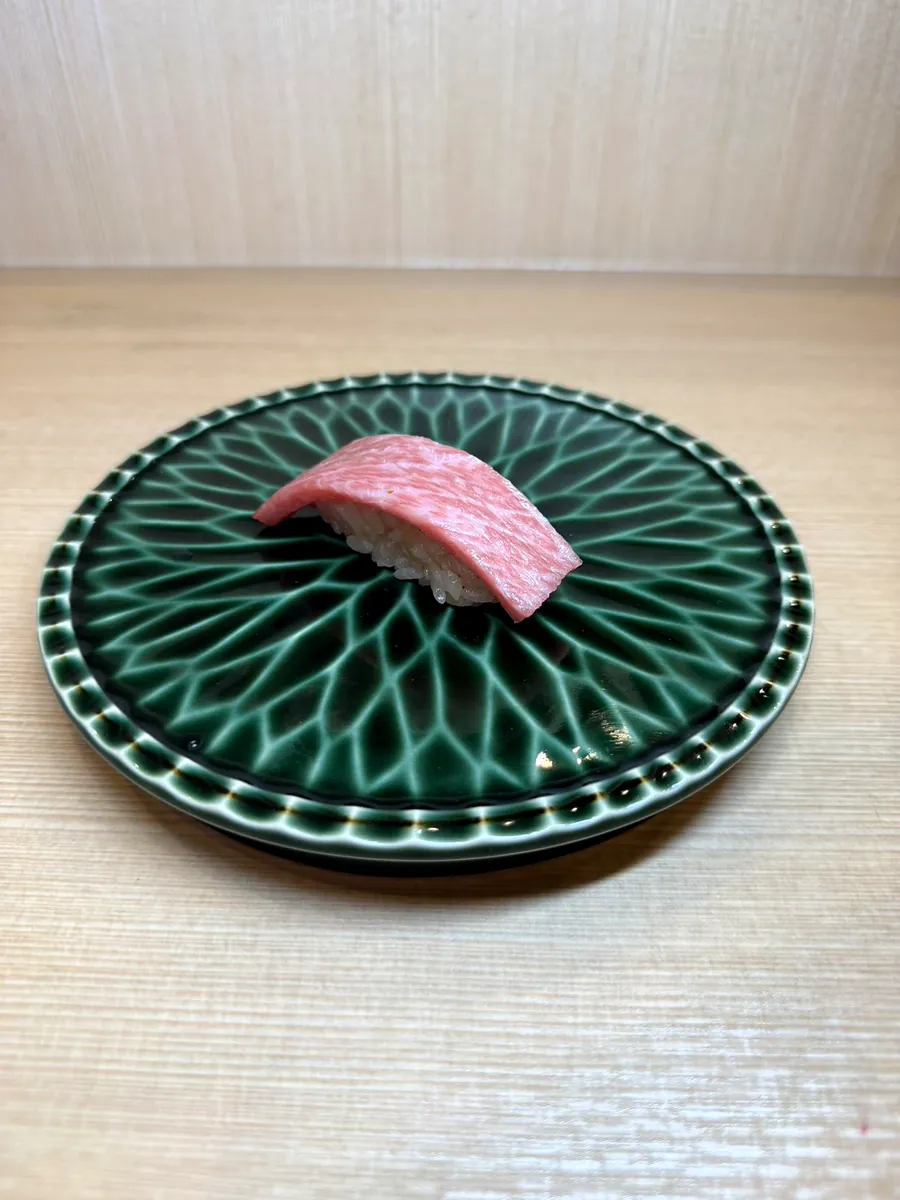
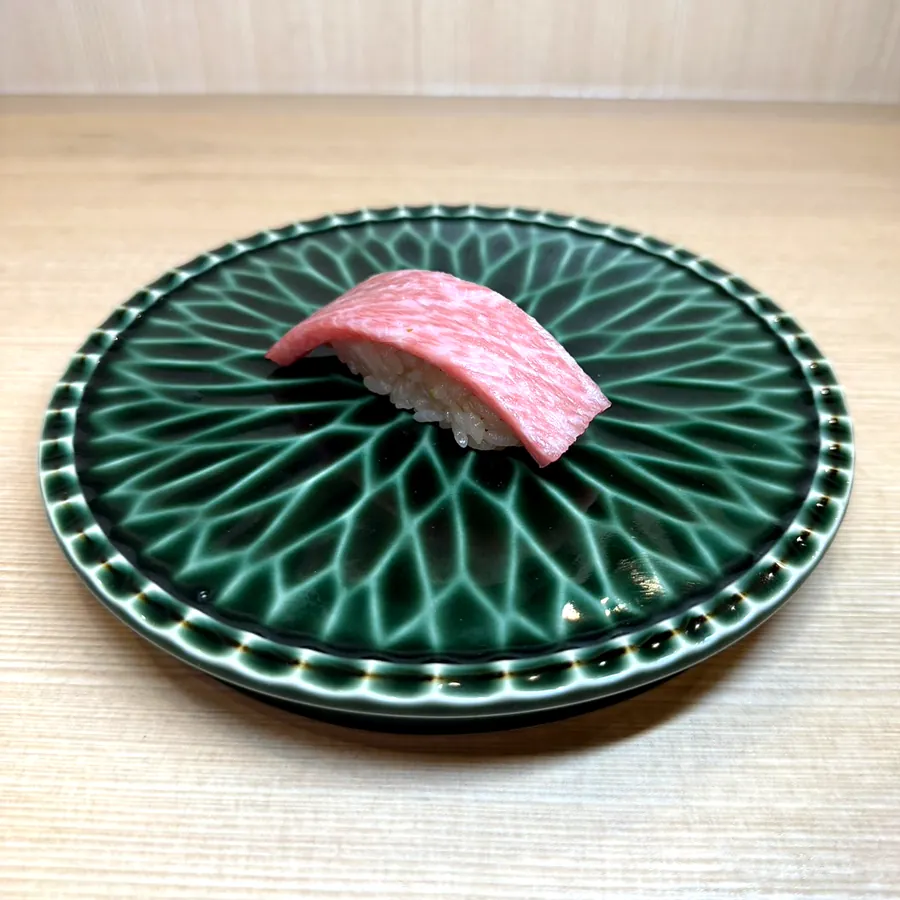
Unify nigiri slider photos (plate size/position/brightness); use shop exterior/interior photos as backgrounds

diff --git a/styles/globals.css b/styles/globals.css
@@ -162,10 +162,10 @@ main {
   inset: 0;
   z-index: -1;
   pointer-events: none;
-  /* 明るい木目調。画像(public/images/wood-bg.webp)の上に、文字を読みやすくするための生成り色の膜を重ねる */
+  /* お店の内装写真(public/images/bg/interior-1.webp)の上に、文字を読みやすくするための生成り色の膜を重ねる */
   background:
-    linear-gradient(rgba(255, 232, 198, 0.88), rgba(255, 232, 198, 0.88)),
-    url("/images/wood-bg.webp") center / cover no-repeat;
+    linear-gradient(rgba(255, 232, 198, 0.84), rgba(255, 232, 198, 0.84)),
+    url("/images/bg/interior-1.webp") center / cover no-repeat;
   background-color: var(--color-bg);
 }
 
@@ -2576,11 +2576,20 @@ h4.drink-group-title {
 /* ---- トップページ：ゾーンごとに背景色を少しずつ変える ----
    木目（.site-bg）を透かすため半透明。文字色は変えないので、濃い茶の文字が読める明るさに保つ。
    ①紹介 ②お品書き ③期間限定・お飲み物 ④店舗情報 ⑤Instagram以下 */
-.home-zone-1 { background: rgba(255, 226, 184, 0.7); }
-.home-zone-2 { background: rgba(255, 243, 224, 0.7); }
-.home-zone-3 { background: rgba(252, 214, 164, 0.7); }
-.home-zone-4 { background: rgba(255, 238, 214, 0.7); }
-.home-zone-5 { background: rgba(249, 207, 156, 0.7); }
+/* 各ゾーンの背景は、お店の外観・内装の写真（public/images/bg/）に生成り色の膜を重ねたもの。
+   膜の濃さ（0.74〜0.8）を下げると写真がはっきり見えるが、文字は読みにくくなる。 */
+.home-zone-1 { background: linear-gradient(rgba(255, 226, 184, 0.76), rgba(255, 226, 184, 0.76)), url("/images/bg/exterior-2.webp") center / cover fixed; }
+.home-zone-2 { background: linear-gradient(rgba(255, 243, 224, 0.8), rgba(255, 243, 224, 0.8)), url("/images/bg/interior-1.webp") center / cover fixed; }
+.home-zone-3 { background: linear-gradient(rgba(252, 214, 164, 0.76), rgba(252, 214, 164, 0.76)), url("/images/bg/exterior-1.webp") center / cover fixed; }
+.home-zone-4 { background: linear-gradient(rgba(255, 238, 214, 0.8), rgba(255, 238, 214, 0.8)), url("/images/bg/interior-1.webp") center / cover fixed; }
+.home-zone-5 { background: linear-gradient(rgba(249, 207, 156, 0.76), rgba(249, 207, 156, 0.76)), url("/images/bg/exterior-2.webp") center / cover fixed; }
+
+/* スマホ・タブレットでは固定背景が重く、効かない端末もあるため、通常のスクロール背景にする */
+@media (max-width: 900px) {
+  .home-zone-1, .home-zone-2, .home-zone-3, .home-zone-4, .home-zone-5 {
+    background-attachment: scroll;
+  }
+}
 
 /* おつまみコース以外：名前 → サブタイトル → 価格 の順に縦に並べ、②③④で文字の位置を揃える */
 .course-card:not(.course-card--featured) .course-card-head {

diff --git a/scripts/process-photos.py b/scripts/process-photos.py
@@ -57,6 +57,41 @@ JOBS = [
 SUSHI = ["85696611", "85696670", "85696616", "85696617", "85696621", "85696628", "85696630",
          "85696660", "85696680", "85696682", "85696632", "85696633", "85696708"]
 
+# 背景用: (出力名, 元写真)  外観2種・店内1種
+BG = [("exterior-1", "85696726"), ("exterior-2", "85696727"), ("interior-1", "85696600")]
+
+
+def plate_box(im):
+    """緑の皿の外接矩形(幅, 中心x, 中心y)を返す。縮小画像で緑の画素を数えて求める"""
+    s = im.width / 200
+    sm = im.resize((200, round(im.height / s)))
+    px = sm.load()
+    xs, ys = [], []
+    for y in range(sm.height):
+        for x in range(sm.width):
+            r, g, b = px[x, y]
+            if g > r * 1.25 and g > b * 1.05 and g < 160:
+                xs.append(x)
+                ys.append(y)
+    xs.sort()
+    ys.sort()
+    k = len(xs) // 200
+    x0, x1, y0, y1 = xs[k], xs[-1 - k], ys[k], ys[-1 - k]
+    return (x1 - x0) * s, (x0 + x1) / 2 * s, (y0 + y1) / 2 * s
+
+
+def sushi_square(im, fill=0.86, target_luma=150):
+    """皿の大きさ・位置・明るさを全写真で揃えた正方形に切り抜く（高さ・背景の見え方を統一）"""
+    pw, cx, cy = plate_box(im)
+    side = int(min(pw / fill, im.width, im.height))
+    x = min(max(int(cx - side / 2), 0), im.width - side)
+    y = min(max(int(cy - side * 0.52), 0), im.height - side)
+    sq = im.crop((x, y, x + side, y + side))
+    luma = sum(ImageOps.grayscale(sq.resize((64, 64))).tobytes()) / 4096
+    k = min(max(target_luma / luma, 0.9), 1.15)
+    return ImageEnhance.Brightness(sq).enhance(k)
+
+
 if __name__ == "__main__":
     for base, num, ratio, cx, cy, widths in JOBS:
         im = enhance(crop_ratio(load(num), ratio, cx, cy))
@@ -65,6 +100,11 @@ if __name__ == "__main__":
             save(im, f"{base}-{w}.webp", w)
         print(base, im.size)
     for i, num in enumerate(SUSHI, 1):
-        im = enhance(load(num))
+        im = enhance(sushi_square(load(num)))
         save(im, f"menu/sushi-{i:02d}.webp", 900, q=80)
     print("sushi", len(SUSHI))
+    # サイトの背景（お店の外観・内装）。文字が読めるよう、CSS側で生成り色の膜を重ねる
+    for name, num in BG:
+        im = enhance(load(num), b=1.04, c=1.0, s=1.0)
+        save(im, f"bg/{name}.webp", 1100, q=70)
+    print("bg", len(BG))
